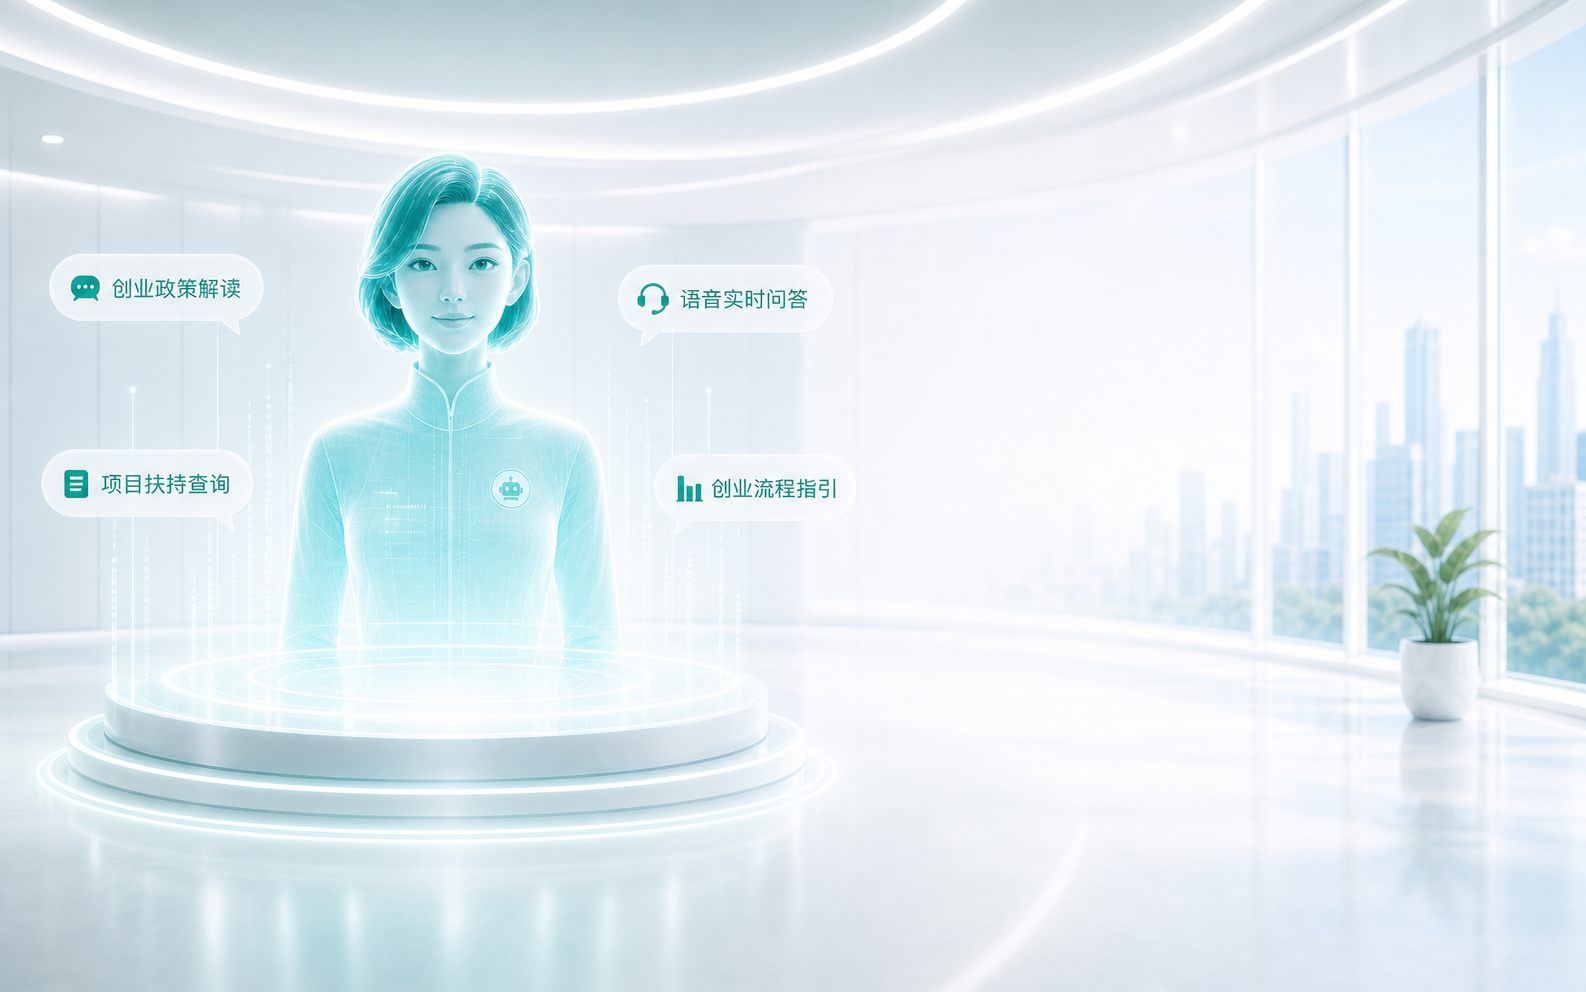
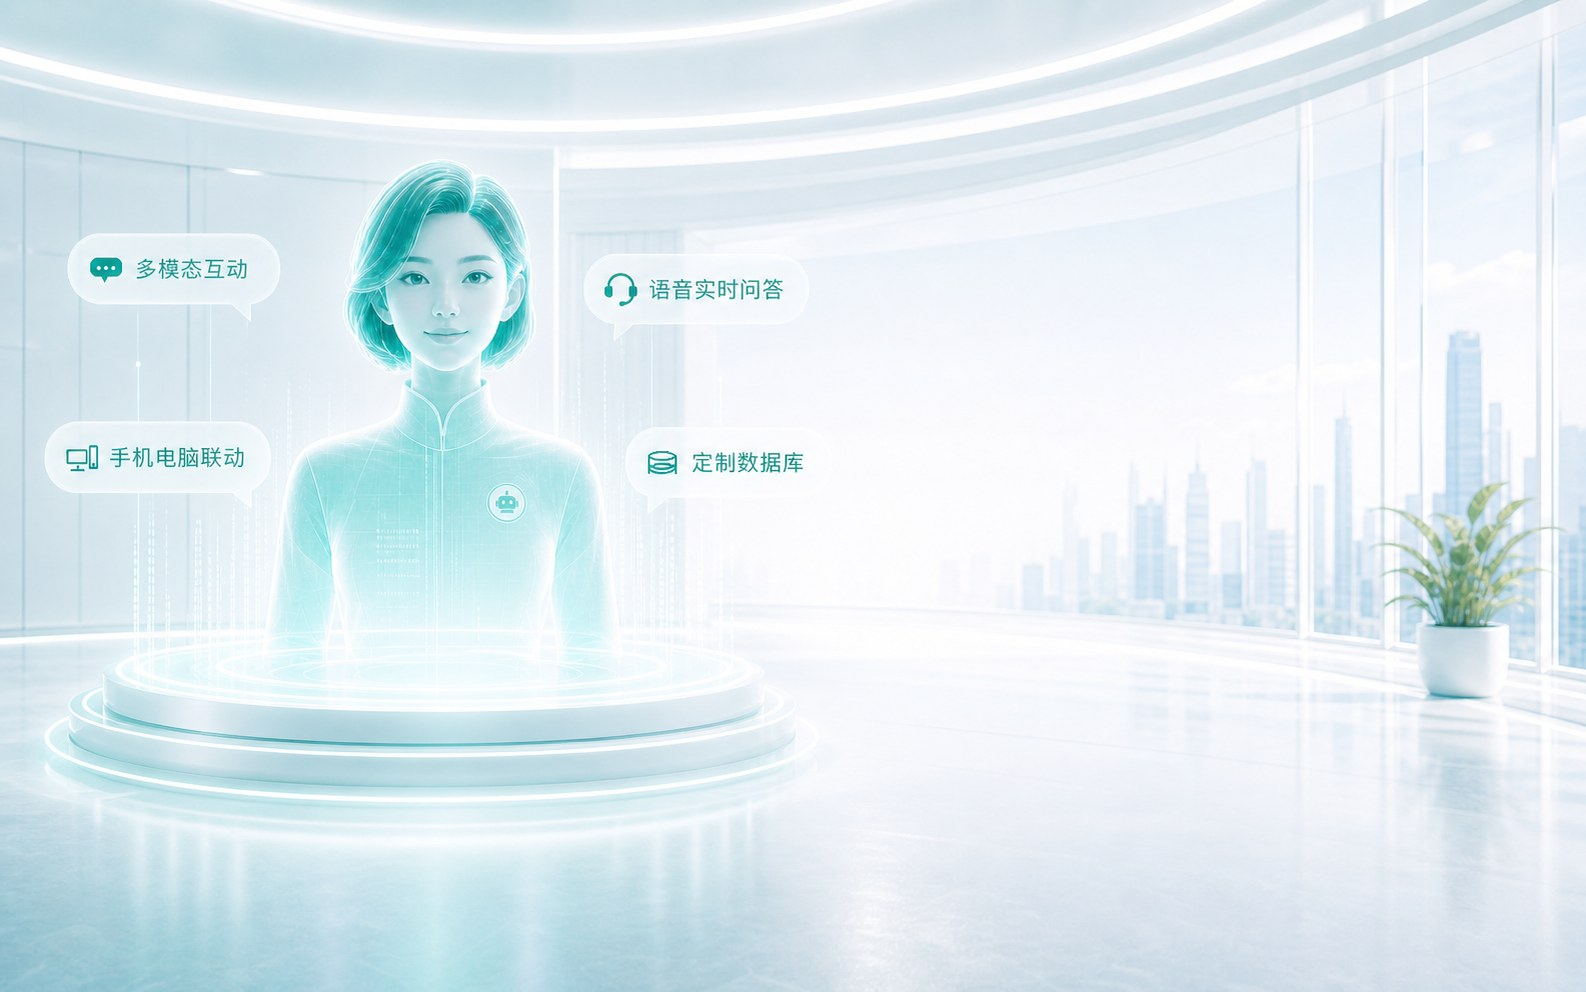
feat: update digital human demo landing copy

diff --git a/src/components/Landing.jsx b/src/components/Landing.jsx
@@ -114,16 +114,16 @@ export default function Landing({ onEnter, onSim }) {
             decoding="async"
           />
         </picture>
-        <div className="landing__brand" aria-label="数字人问答 · 创业服务中心">
+        <div className="landing__brand" aria-label="数字人演示平台">
           <RobotIcon />
-          <span>数字人问答 · 创业服务中心</span>
+          <span>数字人演示平台</span>
         </div>
         <div className="landing__top-trust" aria-label="专业可靠 · 隐私保护 · 安全可信">
           <ShieldIcon />
           <span>专业可靠 · 隐私保护 · 安全可信</span>
         </div>
-        <h1 className="landing__title">创业服务智能助手</h1>
-        <p className="landing__subtitle">3D 数字人 · 语音交互 · 创业政策实时问答</p>
+        <h1 className="landing__title">多场景互动数字人</h1>
+        <p className="landing__subtitle">3D 数字人 · 语音交互 · 数字人形象设计</p>
         <div className="landing__btns">
           <button type="button" className="landing__btn" onClick={onEnter}>
             <span className="landing__btn-icon landing__btn-icon--stage">

diff --git a/index.html b/index.html
@@ -6,7 +6,7 @@
     <link rel="icon" type="image/svg+xml" href="./favicon.svg" />
     <link rel="preload" as="image" href="./landing-mobile.jpg" media="(max-width: 900px)" fetchpriority="high" />
     <link rel="preload" as="image" href="./landing-desktop.jpg" media="(min-width: 901px)" fetchpriority="high" />
-    <title>数字人问答 · 创业服务中心</title>
+    <title>数字人演示平台</title>
   </head>
   <body>
     <div id="root"></div>